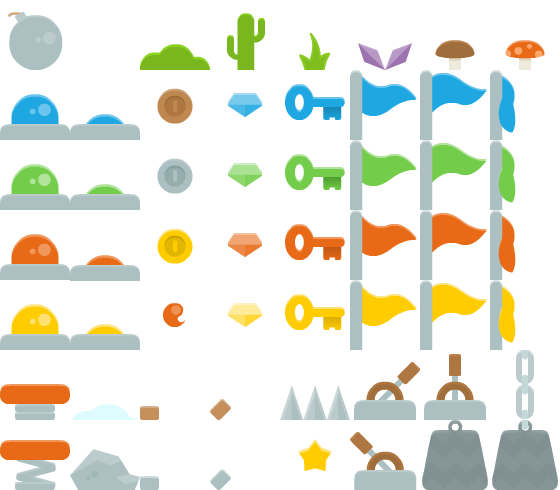
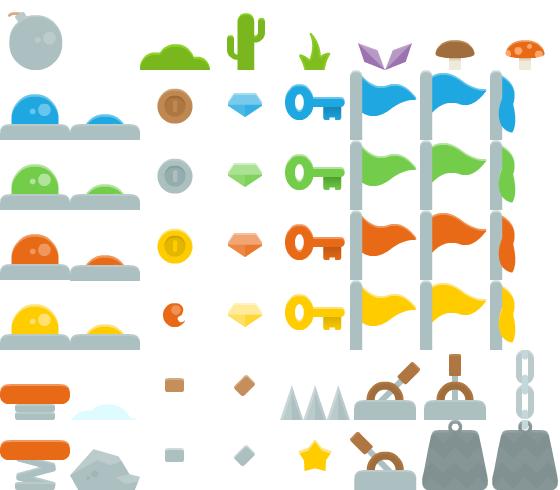
Add resources

diff --git a/src/Graphics/Window.cpp b/src/Graphics/Window.cpp
@@ -50,7 +50,7 @@ std::pair<unsigned, unsigned> splitScreen(unsigned nbPart) {
 }
 
 void Window::drawScene() {
-    // Set view
+    // Get views
     std::vector<sf::View> views;
     for (GameObject* go : scenes.getCurrentScene()->gameObjects) {
         Camera* c = go->getComponent<Camera>();
@@ -67,20 +67,14 @@ void Window::drawScene() {
     float width = (float)1.0 / nbElem.first;
     float height = (float)1.0 / nbElem.second;
 
+    // Draw all views
     unsigned nbCamera = (unsigned) views.size();
     for (unsigned i = 0; i < nbCamera; i++) {
-        views[i].setViewport(sf::FloatRect(
-                (i%nbElem.first) * width ,
-                (i/nbElem.second) * height * (nbCamera > 2),
-                width, height
-        ));
-        if (nbCamera < 3)
-            views[i].setSize(
-                    width * sf::VideoMode::getDesktopMode().width * 1.5,
-                    height * sf::VideoMode::getDesktopMode().height * 1.5
-            );
+        views[i].setViewport(sf::FloatRect((i%nbElem.first) * width, (i/nbElem.second) * height * (nbCamera > 2), width, height));
+        if (nbCamera == 2)views[i].setSize(width * window.getSize().x * 1.5, height * window.getSize().y * 1.5);
         window.setView(views[i]);
 
+        // Draw gameObjects
         sf::RenderStates renderStates;
         for (GameObject *gameObject : scenes.getCurrentScene()->gameObjects) {
             renderStates.transform = gameObject->transform.getTransformMatrix();
@@ -108,6 +102,9 @@ void Window::drawScene() {
             }
         }
     }
+
+    // Draw HUD
+    window.setView(window.getDefaultView());
 }
 
 sf::Color Window::getColor(const Collider * collider) {

diff --git a/include/User/Sandbox.hpp b/include/User/Sandbox.hpp
@@ -16,10 +16,10 @@ namespace PancakeEngine {
     class Sandbox : public Scene {
     public:
         Sandbox() : Scene("Sandbox") {
-            AssetsManager::createSpriteSheet("player1", "../resources/player/player1.png", 73, 94);
-            AssetsManager::createSpriteSheet("player2", "../resources/player/player2.png", 73, 94);
-            AssetsManager::createSpriteSheet("player3", "../resources/player/player3.png", 73, 94);
-            AssetsManager::createSpriteSheet("tiles", "../resources/tiles.png", 70, 70, 2);
+            AssetsManager::createSpriteSheet("player1", "../resources/players/player1.png", 73, 94);
+            AssetsManager::createSpriteSheet("player2", "../resources/players/player2.png", 73, 94);
+            AssetsManager::createSpriteSheet("player3", "../resources/players/player3.png", 73, 94);
+            AssetsManager::createSpriteSheet("tiles", "../resources/tiles/tiles.png", 70, 70);
             AssetsManager::createSpriteSheet("items", "../resources/items.png", 70, 70);
 
             addGameObject<Ground>().transform.setPosition(sf::Vector2f(0, 50));
@@ -31,7 +31,7 @@ namespace PancakeEngine {
             for (int i = 1; i <= 10; ++i) addGameObject<Coin>().transform.setPosition(sf::Vector2f(-75*i-50, -20));
 
             addGameObject<Player1>();
-            addGameObject<Player2>();
+            //addGameObject<Player2>();
             //addGameObject<Player3>();
         }
     };

diff --git a/include/User/Ground.hpp b/include/User/Ground.hpp
@@ -25,7 +25,7 @@ namespace PancakeEngine {
 
             for (int i = -WIDTH/2; i < WIDTH/2; ++i) {
                 SpriteRenderer& sr = addComponent<SpriteRenderer>();
-                sr.setSprite(sheet, 7, 8);
+                sr.setSprite(sheet, 2, 6);
                 sr.setPosition(sf::Vector2f(i*SIZE, 0));
             }
         }

diff --git a/include/User/Box.hpp b/include/User/Box.hpp
@@ -36,7 +36,7 @@ namespace PancakeEngine {
             transform.setRotation(0);
 
             addComponent<SpriteRenderer>().setSprite(
-                    AssetsManager::getSpriteSheet("tiles"), 0, 11
+                    AssetsManager::getSpriteSheet("tiles"), 0, 1
             );
         }
     };
